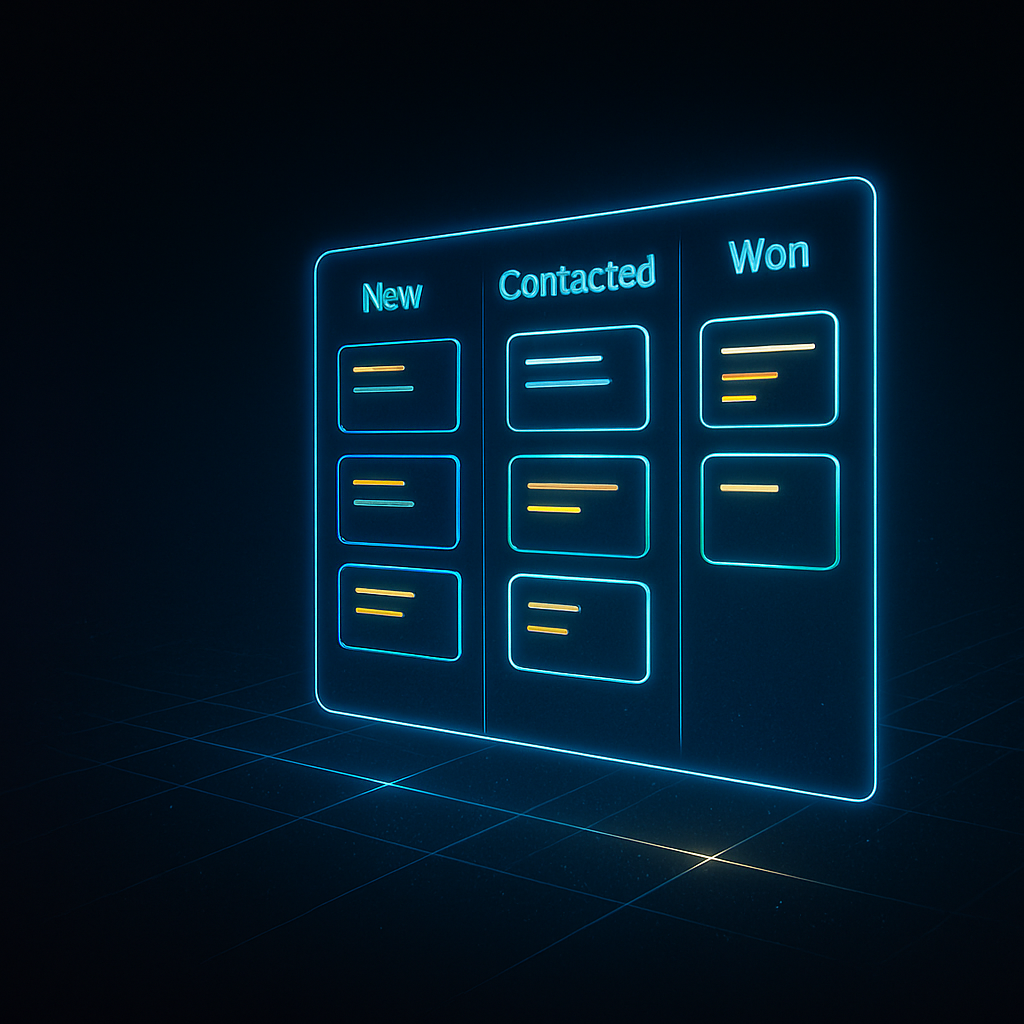
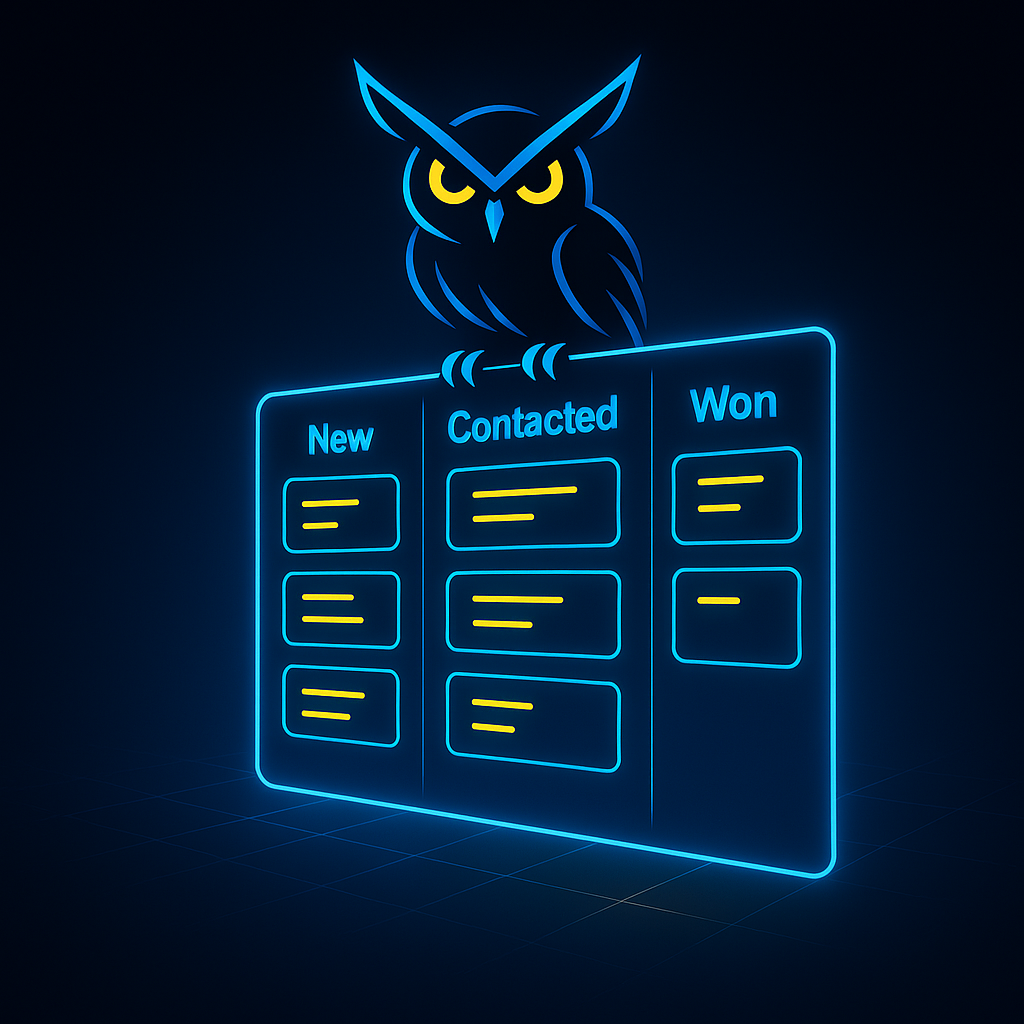
updating demo leads and hero secion

Changed region(s): [[0.125, 0.0625, 0.875, 0.9062]]

diff --git a/store/useLeads.ts b/store/useLeads.ts
@@ -3,10 +3,11 @@ import { Lead, LeadStatus } from '@/types'
 import { getLeadsFromStorage, saveLeadsToStorage, generateLeadId } from '@/lib/leads'
 import toast from 'react-hot-toast'
 
-// Sample demo lead data for all stages
+// Sample demo lead data for all stages - more realistic distribution
 const getSampleDemoLeads = (): Lead[] => [
+  // New Leads (3 leads)
   {
-    id: 'demo-lead-new',
+    id: 'demo-lead-new-1',
     name: 'Alex Rodriguez',
     email: 'alex.r@innovate.com',
     phone: '+1 (555) 987-6543',
@@ -18,7 +19,33 @@ const getSampleDemoLeads = (): Lead[] => [
     updatedAt: new Date(Date.now() - 24 * 60 * 60 * 1000).toISOString(),
   },
   {
-    id: 'demo-lead-contacted',
+    id: 'demo-lead-new-2',
+    name: 'Jennifer Walsh',
+    email: 'j.walsh@creativeco.com',
+    phone: '+1 (555) 234-5678',
+    company: 'Creative Co.',
+    leadSource: 'Website',
+    notes: 'Downloaded our pricing guide. Small design agency looking for client management solution.',
+    status: 'New',
+    createdAt: new Date(Date.now() - 6 * 60 * 60 * 1000).toISOString(), // 6 hours ago
+    updatedAt: new Date(Date.now() - 6 * 60 * 60 * 1000).toISOString(),
+  },
+  {
+    id: 'demo-lead-new-3',
+    name: 'Robert Martinez',
+    email: 'r.martinez@techstart.io',
+    phone: '+1 (555) 345-6789',
+    company: 'TechStart',
+    leadSource: 'Referral',
+    notes: 'Referred by existing customer. Early-stage startup, budget-conscious but interested.',
+    status: 'New',
+    createdAt: new Date(Date.now() - 2 * 60 * 60 * 1000).toISOString(), // 2 hours ago
+    updatedAt: new Date(Date.now() - 2 * 60 * 60 * 1000).toISOString(),
+  },
+
+  // Contacted (2 leads)
+  {
+    id: 'demo-lead-contacted-1',
     name: 'Sarah Johnson',
     email: 'sarah.j@techcorp.com',
     phone: '+1 (555) 123-4567',
@@ -30,7 +57,21 @@ const getSampleDemoLeads = (): Lead[] => [
     updatedAt: new Date(Date.now() - 12 * 60 * 60 * 1000).toISOString(), // 12 hours ago
   },
   {
-    id: 'demo-lead-followup',
+    id: 'demo-lead-contacted-2',
+    name: 'Mark Stevens',
+    email: 'm.stevens@growthagency.com',
+    phone: '+1 (555) 456-7890',
+    company: 'Growth Agency',
+    leadSource: 'Cold Call',
+    notes: 'Positive initial conversation. Wants to see demo next Tuesday. Team of 8 people.',
+    status: 'Contacted',
+    createdAt: new Date(Date.now() - 5 * 24 * 60 * 60 * 1000).toISOString(), // 5 days ago
+    updatedAt: new Date(Date.now() - 18 * 60 * 60 * 1000).toISOString(), // 18 hours ago
+  },
+
+  // Follow-Up (4 leads - most active stage)
+  {
+    id: 'demo-lead-followup-1',
     name: 'Michael Chen',
     email: 'm.chen@startup.io',
     phone: '+1 (555) 555-0123',
@@ -42,7 +83,45 @@ const getSampleDemoLeads = (): Lead[] => [
     updatedAt: new Date(Date.now() - 2 * 24 * 60 * 60 * 1000).toISOString(), // 2 days ago
   },
   {
-    id: 'demo-lead-won',
+    id: 'demo-lead-followup-2',
+    name: 'Lisa Park',
+    email: 'lisa.p@consultingfirm.com',
+    phone: '+1 (555) 678-9012',
+    company: 'Park Consulting',
+    leadSource: 'Trade Show',
+    notes: 'Demo completed. Comparing with 2 other solutions. Decision expected by end of month.',
+    status: 'Follow-Up',
+    createdAt: new Date(Date.now() - 12 * 24 * 60 * 60 * 1000).toISOString(), // 12 days ago
+    updatedAt: new Date(Date.now() - 3 * 24 * 60 * 60 * 1000).toISOString(), // 3 days ago
+  },
+  {
+    id: 'demo-lead-followup-3',
+    name: 'James Wilson',
+    email: 'j.wilson@salesteam.com',
+    phone: '+1 (555) 789-0123',
+    company: 'SalesTeam Pro',
+    leadSource: 'Website',
+    notes: 'Requested custom pricing for 15-person team. Sent proposal yesterday. Very interested.',
+    status: 'Follow-Up',
+    createdAt: new Date(Date.now() - 9 * 24 * 60 * 60 * 1000).toISOString(), // 9 days ago
+    updatedAt: new Date(Date.now() - 1 * 24 * 60 * 60 * 1000).toISOString(), // 1 day ago
+  },
+  {
+    id: 'demo-lead-followup-4',
+    name: 'Amanda Foster',
+    email: 'a.foster@digitalmarketing.com',
+    phone: '+1 (555) 890-1234',
+    company: 'Digital Marketing Plus',
+    leadSource: 'Social Media',
+    notes: 'Trial user for 2 weeks. Loves the interface. Discussing team plan upgrade.',
+    status: 'Follow-Up',
+    createdAt: new Date(Date.now() - 15 * 24 * 60 * 60 * 1000).toISOString(), // 15 days ago
+    updatedAt: new Date(Date.now() - 4 * 60 * 60 * 1000).toISOString(), // 4 hours ago
+  },
+
+  // Won (2 leads)
+  {
+    id: 'demo-lead-won-1',
     name: 'Emma Thompson',
     email: 'emma.t@globaldyne.com',
     phone: '+1 (555) 777-8888',
@@ -54,7 +133,21 @@ const getSampleDemoLeads = (): Lead[] => [
     updatedAt: new Date(Date.now() - 1 * 24 * 60 * 60 * 1000).toISOString(), // 1 day ago
   },
   {
-    id: 'demo-lead-lost',
+    id: 'demo-lead-won-2',
+    name: 'Carlos Rodriguez',
+    email: 'c.rodriguez@successagency.com',
+    phone: '+1 (555) 111-2222',
+    company: 'Success Agency',
+    leadSource: 'Referral',
+    notes: 'Closed! Annual subscription for team of 12. Very happy with onboarding process.',
+    status: 'Won',
+    createdAt: new Date(Date.now() - 21 * 24 * 60 * 60 * 1000).toISOString(), // 3 weeks ago
+    updatedAt: new Date(Date.now() - 7 * 24 * 60 * 60 * 1000).toISOString(), // 1 week ago
+  },
+
+  // Lost (1 lead)
+  {
+    id: 'demo-lead-lost-1',
     name: 'David Kim',
     email: 'david.k@budget.com',
     phone: '+1 (555) 444-3333',
@@ -82,7 +175,7 @@ interface LeadsStore {
   getLeadsByStatus: (status: LeadStatus) => Lead[]
   canAddLead: () => boolean
   canEditLead: (id: string) => boolean
-  clearDemoData: () => void
+  resetDemoData: () => void
 }
 
 export const useLeads = create<LeadsStore>((set, get) => ({
@@ -94,11 +187,19 @@ export const useLeads = create<LeadsStore>((set, get) => ({
   loadLeads: () => {
     set({ isLoading: true })
     try {
-      // In demo mode, always start with sample data
+      // In demo mode, check if we have existing data first
       if (get().isDemoMode) {
-        localStorage.removeItem('stagewize-leads')
-        const sampleLeads = getSampleDemoLeads()
-        set({ leads: sampleLeads, isLoading: false })
+        const existingLeads = getLeadsFromStorage()
+        
+        // If no existing data or only demo data, load fresh demo data
+        if (existingLeads.length === 0 || existingLeads.every(lead => lead.id.startsWith('demo-lead-'))) {
+          const sampleLeads = getSampleDemoLeads()
+          set({ leads: sampleLeads, isLoading: false })
+          saveLeadsToStorage(sampleLeads) // Persist demo data
+        } else {
+          // Load existing data (mix of demo + user leads)
+          set({ leads: existingLeads, isLoading: false })
+        }
         
         // Show demo notification only once
         if (!get().hasShownDemoNotification) {
@@ -163,8 +264,8 @@ export const useLeads = create<LeadsStore>((set, get) => ({
     const updatedLeads = [...leads, newLead]
     set({ leads: updatedLeads })
     
-    // In demo mode, don't persist to localStorage
-    if (!isDemoMode) {
+    // In demo mode, persist to localStorage
+    if (isDemoMode) {
       saveLeadsToStorage(updatedLeads)
     }
     
@@ -203,8 +304,8 @@ export const useLeads = create<LeadsStore>((set, get) => ({
     
     set({ leads: updatedLeads })
     
-    // In demo mode, don't persist to localStorage
-    if (!isDemoMode) {
+    // In demo mode, persist to localStorage
+    if (isDemoMode) {
       saveLeadsToStorage(updatedLeads)
     }
     
@@ -216,7 +317,7 @@ export const useLeads = create<LeadsStore>((set, get) => ({
     
     // Check if this lead can be deleted
     if (!canEditLead(id)) {
-      toast.error('🎭 Demo leads cannot be deleted! They reset on page refresh.', {
+      toast.error('🎭 Demo leads cannot be deleted! They persist between sessions.', {
         duration: 4000,
       })
       return
@@ -227,8 +328,8 @@ export const useLeads = create<LeadsStore>((set, get) => ({
     
     set({ leads: updatedLeads })
     
-    // In demo mode, don't persist to localStorage  
-    if (!isDemoMode) {
+    // In demo mode, persist to localStorage  
+    if (isDemoMode) {
       saveLeadsToStorage(updatedLeads)
     }
     
@@ -248,8 +349,8 @@ export const useLeads = create<LeadsStore>((set, get) => ({
     
     set({ leads: updatedLeads })
     
-    // In demo mode, don't persist to localStorage
-    if (!isDemoMode) {
+    // In demo mode, persist to localStorage
+    if (isDemoMode) {
       saveLeadsToStorage(updatedLeads)
     }
     
@@ -261,9 +362,10 @@ export const useLeads = create<LeadsStore>((set, get) => ({
     return get().leads.filter(lead => lead.status === status)
   },
   
-  clearDemoData: () => {
-    localStorage.removeItem('stagewize-leads')
-    set({ leads: [], hasShownDemoNotification: false })
-    toast('Demo data cleared', { icon: '🗑' })
+  resetDemoData: () => {
+    const sampleLeads = getSampleDemoLeads()
+    set({ leads: sampleLeads, hasShownDemoNotification: false })
+    saveLeadsToStorage(sampleLeads)
+    toast('Demo data reset to defaults', { icon: '🔄' })
   },
 })) 

diff --git a/app/demo/page.tsx b/app/demo/page.tsx
@@ -12,14 +12,14 @@ import { useLeads } from '@/store/useLeads'
 import { Lead } from '@/types'
 
 export default function Demo() {
-  const { clearDemoData, canAddLead } = useLeads()
+  const { loadLeads, canAddLead } = useLeads()
   const [isFormOpen, setIsFormOpen] = useState(false)
   const [editingLead, setEditingLead] = useState<Lead | undefined>(undefined)
 
   useEffect(() => {
-    // Clear existing data and load demo data on page load
-    clearDemoData()
-  }, [clearDemoData])
+    // Load leads on page mount (will load existing data or fresh demo data)
+    loadLeads()
+  }, [loadLeads])
 
   const handleAddLead = () => {
     if (canAddLead()) {

diff --git a/app/page.tsx b/app/page.tsx
@@ -11,7 +11,7 @@ export default function Home() {
       
       {/* Hero Section */}
       <section className="relative overflow-hidden">
-        <div className="absolute inset-0 bg-gradient-to-br from-blue-900/20 to-yellow-900/20"></div>
+        <div className="absolute inset-0 bg-gradient-to-r from-[#0f172a] via-[#0a0e1a]/90 to-[#070c13]/95"></div>
         <div className="relative max-w-7xl mx-auto px-4 py-20 lg:py-32">
           <div className="grid grid-cols-1 lg:grid-cols-2 gap-12 items-center">
             {/* Left side - Text content */}
